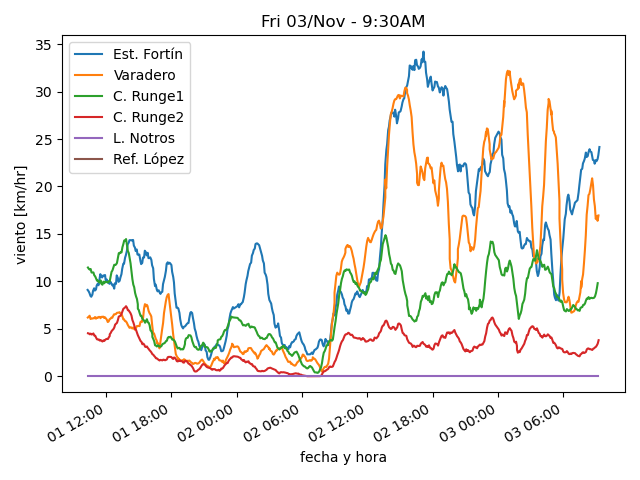
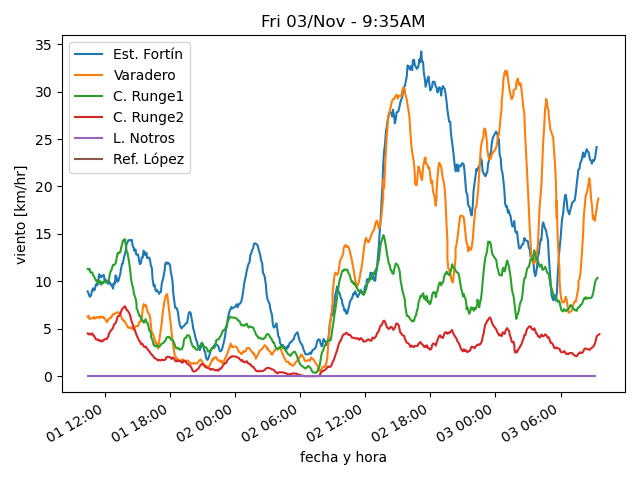
actualiza datos

diff --git a/estaciones/estacion3.html b/estaciones/estacion3.html
@@ -18,32 +18,32 @@
     </tr>
     <tr>
      <td class="stats_data">
-      9:09AM
+      9:24AM
      </td>
     </tr>
     <tr>
      <td class="stats_data">
-      8.2⁰C
+      8.5⁰C
      </td>
     </tr>
     <tr>
      <td class="stats_data">
-      2.2⁰C
+      1.5⁰C
      </td>
     </tr>
     <tr>
      <td class="stats_data">
-      65.9%
+      61.7%
      </td>
     </tr>
     <tr>
      <td class="stats_data">
-      1012.02hPa
+      1011.92hPa
      </td>
     </tr>
     <tr>
      <td class="stats_data">
-      10.5/15.0 km/hr WNW
+      6.6/10.1 km/hr WNW
      </td>
     </tr>
     <tr>
@@ -53,12 +53,12 @@
     </tr>
     <tr>
      <td class="stats_data">
-      4.0
+      5.0
      </td>
     </tr>
     <tr>
      <td class="stats_data">
-      410.3 W/m²
+      505.4 W/m²
      </td>
     </tr>
    </tbody>

diff --git a/estaciones/estacion4.html b/estaciones/estacion4.html
@@ -18,32 +18,32 @@
     </tr>
     <tr>
      <td class="stats_data">
-      9:14AM
+      9:34AM
      </td>
     </tr>
     <tr>
      <td class="stats_data">
-      9.5⁰C
+      10.2⁰C
      </td>
     </tr>
     <tr>
      <td class="stats_data">
-      1.5⁰C
+      1.8⁰C
      </td>
     </tr>
     <tr>
      <td class="stats_data">
-      57.4%
+      56.0%
      </td>
     </tr>
     <tr>
      <td class="stats_data">
-      1020.62hPa
+      1020.73hPa
      </td>
     </tr>
     <tr>
      <td class="stats_data">
-      4.2/6.2 km/hr WSW
+      2.5/4.1 km/hr WSW
      </td>
     </tr>
     <tr>
@@ -53,12 +53,12 @@
     </tr>
     <tr>
      <td class="stats_data">
-      3.0
+      4.0
      </td>
     </tr>
     <tr>
      <td class="stats_data">
-      401.6 W/m²
+      478.5 W/m²
      </td>
     </tr>
    </tbody>

diff --git a/estaciones/estacion2.html b/estaciones/estacion2.html
@@ -18,7 +18,7 @@
     </tr>
     <tr>
      <td class="stats_data">
-      9:14AM
+      9:29AM
      </td>
     </tr>
     <tr>
@@ -28,12 +28,12 @@
     </tr>
     <tr>
      <td class="stats_data">
-      3.1⁰C
+      3.4⁰C
      </td>
     </tr>
     <tr>
      <td class="stats_data">
-      67.3%
+      68.8%
      </td>
     </tr>
     <tr>
@@ -43,7 +43,7 @@
     </tr>
     <tr>
      <td class="stats_data">
-      15.3/19.6 km/hr WNW
+      19.3/24.2 km/hr NW
      </td>
     </tr>
     <tr>
@@ -58,7 +58,7 @@
     </tr>
     <tr>
      <td class="stats_data">
-      436.7 W/m²
+      498.4 W/m²
      </td>
     </tr>
    </tbody>
